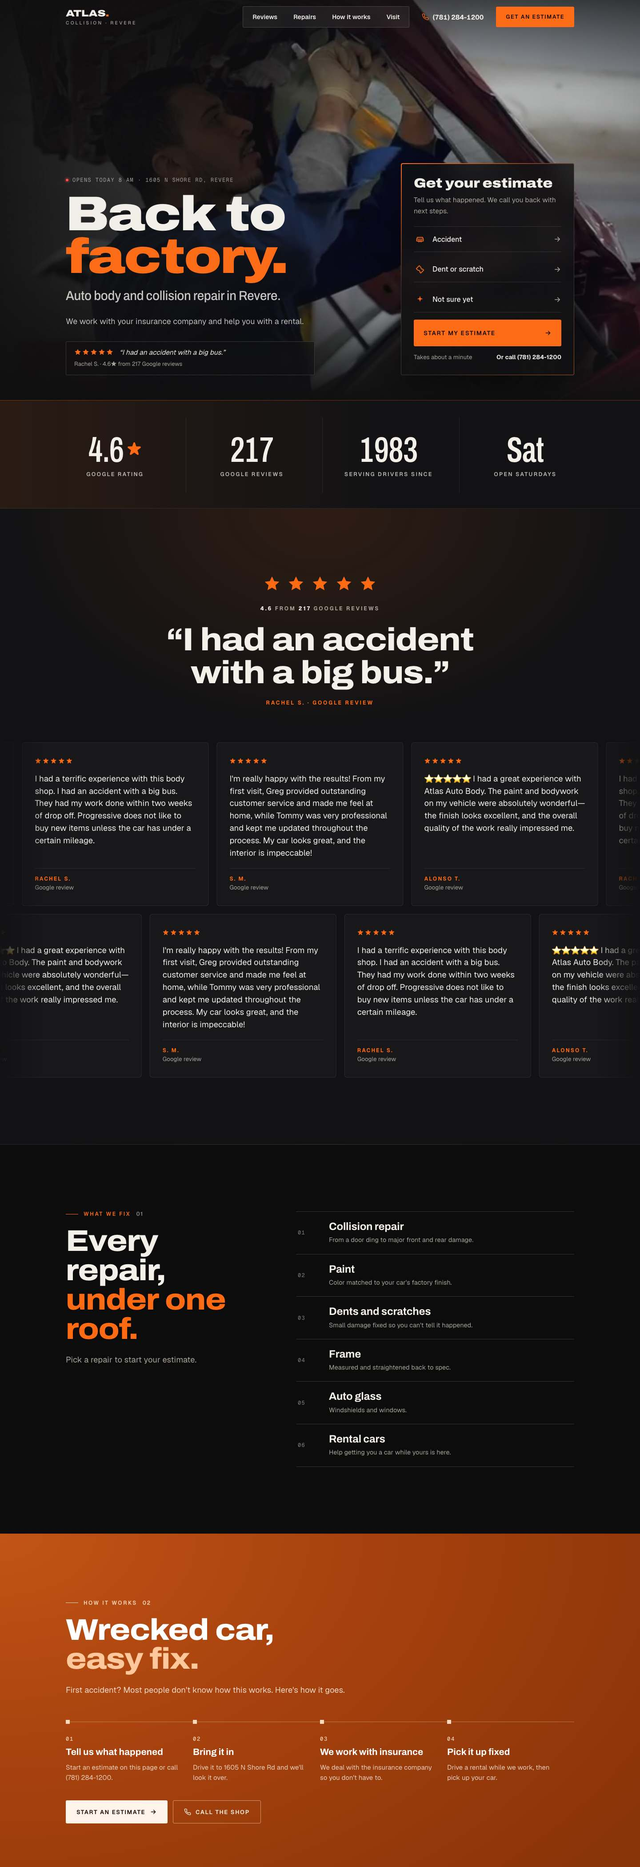
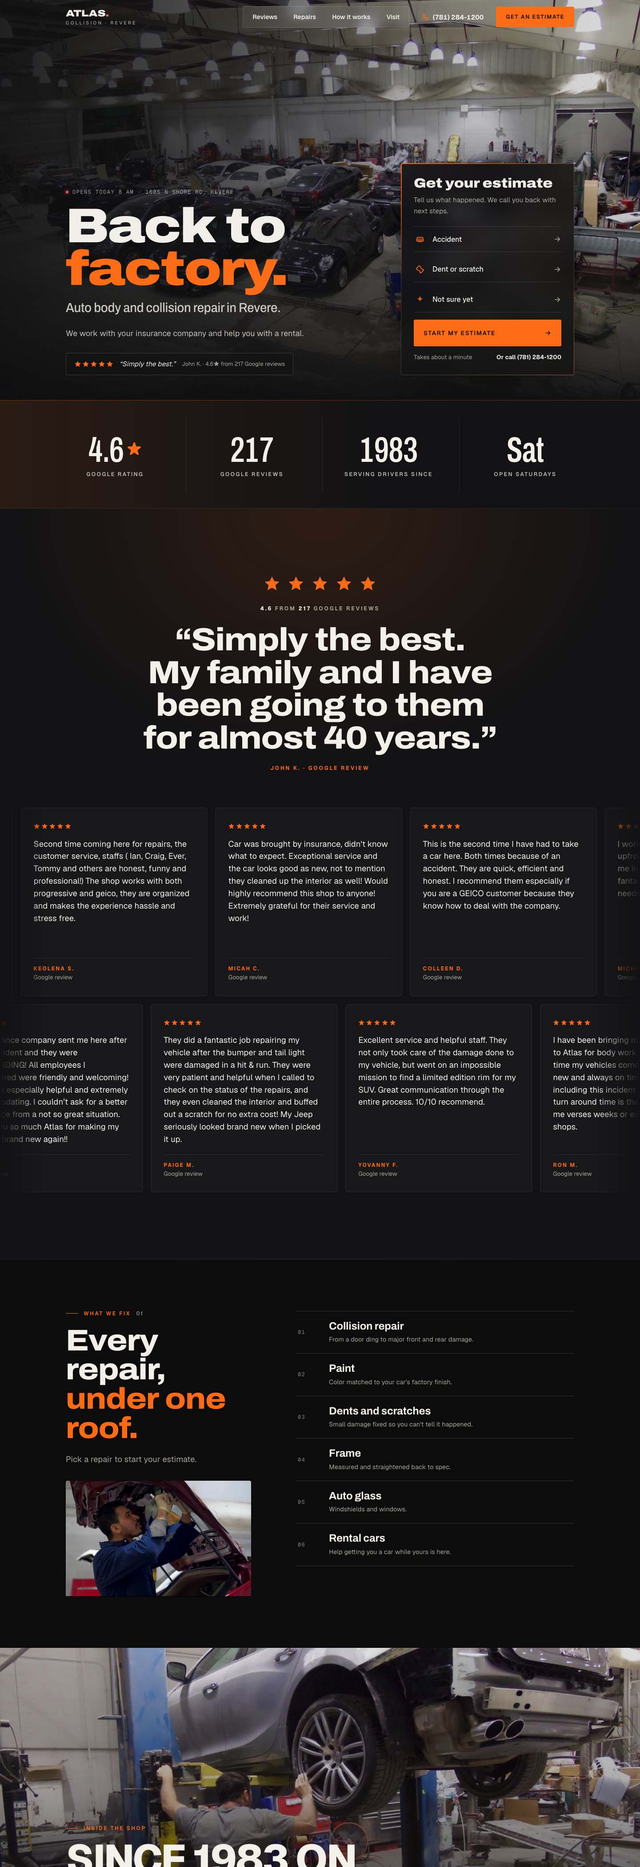
previews 2026-10-07 02:04

diff --git a/supino-insurance/index.html b/supino-insurance/index.html
@@ -34,10 +34,10 @@
    Type: Instrument Serif (headlines), Figtree (everything else)
    ============================================================ */
 :root{
-  --ink:#0C1A36; --harbour:#2358D6; --brick:#F5B544; --paper:#F4F7FC; --granite:#55627A;
-  --ink-2:#132651; --harbour-deep:#1B45AE; --brick-deep:#E9A22A; --paper-deep:#E8EEF9;
+  --ink:#0A1428; --harbour:#0F1D3A; --brick:#D4AF6A; --paper:#F6F2EA; --granite:#5E6573;
+  --ink-2:#13223F; --harbour-deep:#0A1428; --brick-deep:#C49B52; --paper-deep:#ECE5D8;
   --card:#FFFFFF; --line:rgba(12,26,54,.12); --line-strong:rgba(12,26,54,.24);
-  --on-ink:rgba(244,247,252,.78); --error:#B3261E;
+  --on-ink:rgba(240,236,228,.76); --error:#B3261E;
   --serif:"Instrument Serif", Georgia, "Times New Roman", serif;
   --sans:"Figtree", system-ui, -apple-system, "Segoe UI", Roboto, Helvetica, Arial, sans-serif;
   --max:1200px; --gutter:clamp(20px,5vw,48px); --section:clamp(72px,9vw,120px);
@@ -537,6 +537,67 @@ html.qf-open{overflow:hidden}
   .callbar .btn{flex:1;min-height:48px;padding:0 12px}
   .callbar .btn-light{background:#fff;color:var(--ink)}
 }
+
+/* ===== Navy + gold refresh ===== */
+.site-header{background:rgba(10,20,40,.94);-webkit-backdrop-filter:blur(10px);backdrop-filter:blur(10px);box-shadow:0 1px 0 rgba(212,175,106,.18)}
+.site-header.is-scrolled{background:rgba(10,20,40,.97)}
+.brand-sub{color:rgba(212,175,106,.85)}
+.hero{background:var(--ink)}
+.hero h1 em{color:var(--brick)}
+.proof-dots span{border-color:var(--ink)}
+.btn-primary{background:var(--brick);color:#0A1428}
+.btn-primary:hover{background:#E2C283;box-shadow:0 12px 28px -12px rgba(212,175,106,.75)}
+.btn-blue{background:var(--ink);color:#fff}.btn-blue:hover{background:#13223F}
+.btn-quiet:hover{border-color:var(--brick-deep);color:var(--ink)}
+.jump a{background:rgba(255,255,255,.04);box-shadow:inset 0 0 0 1px rgba(212,175,106,.38)}
+.jump a:hover{background:rgba(212,175,106,.12)}
+.scroll-cue{background:rgba(10,20,40,.85);box-shadow:inset 0 0 0 1px rgba(212,175,106,.3)}
+.coverage{background:var(--harbour);padding-top:var(--section)}
+.cov-grid{grid-template-columns:minmax(0,1fr)!important}
+.coverage .section-head{text-align:center}.coverage .section-head p{margin-inline:auto}
+.coverage .tabs{justify-content:center}
+.product,.coverage .product{background:rgba(255,255,255,.03);box-shadow:inset 0 0 0 1px rgba(212,175,106,.22)}
+.product:hover,.coverage .product:hover{background:rgba(212,175,106,.09);box-shadow:inset 0 0 0 1px rgba(212,175,106,.6)}
+.product svg{color:var(--brick)}
+.companies{text-align:center}
+.services{grid-template-columns:minmax(0,1fr)}
+.svc-list ul{grid-template-columns:repeat(3,minmax(0,1fr));gap:24px}
+.coverage .svc{background:transparent;box-shadow:none;border-top:1px solid rgba(212,175,106,.25);border-radius:0;padding:32px 0 0}
+.panel{background:var(--ink);box-shadow:inset 0 0 0 1px rgba(212,175,106,.16)}
+.why{background:var(--ink)}
+.stat b{color:var(--brick)}
+.reviews-band{background:var(--paper);padding-block:clamp(64px,8vw,104px)}
+.reviews-head{display:block;margin:0 0 28px}
+.reviews-head h2{font:400 clamp(2.4rem,4.6vw,3.8rem)/1 var(--serif);letter-spacing:-.01em}
+.reviews-head p{margin-top:10px;color:var(--granite)}
+.reviews-band .rv-card{background:#fff;box-shadow:0 1px 2px rgba(10,20,40,.06),0 18px 40px -26px rgba(10,20,40,.35);color:var(--ink)}
+.reviews-band .rv-card blockquote{font:400 1.45rem/1.3 var(--serif)}
+.reviews-band .rv-card figcaption small{color:var(--granite)}
+.reviews-band.is-paused .rv-lane{animation-play-state:paused}
+.photo-band{position:relative;min-height:clamp(380px,52vw,640px);display:flex;align-items:flex-end;overflow:hidden;color:#fff;isolation:isolate}
+.photo-band img{position:absolute;inset:0;width:100%;height:100%;object-fit:cover;z-index:-2;animation:bandDrift 30s ease-in-out infinite alternate}
+.photo-band::after{content:"";position:absolute;inset:0;z-index:-1;background:linear-gradient(0deg,rgba(10,20,40,.88) 0%,rgba(10,20,40,.35) 45%,rgba(10,20,40,.05) 100%)}
+.band-quote{padding-block:clamp(40px,6vw,72px);font:400 clamp(2.4rem,5.4vw,4.6rem)/1 var(--serif);letter-spacing:-.01em}
+.band-quote em{color:var(--brick)}
+@keyframes bandDrift{from{transform:scale(1.04) translateY(0)}to{transform:scale(1.12) translateY(-2%)}}
+.contact-top{grid-template-columns:minmax(0,1fr)}
+.team{padding:28px 0 0;border-top:1px solid var(--line)}
+.team h3{font:400 1.8rem/1 var(--serif)}.team > p{max-width:80ch;line-height:1.8}
+.site-footer{background:var(--ink)!important;box-shadow:inset 0 1px 0 rgba(212,175,106,.2)}
+/* reveal on scroll */
+.reveal{opacity:0;transform:translateY(26px);transition:opacity .9s var(--ease),transform .9s var(--ease)}
+.reveal.in{opacity:1;transform:none}
+@media (min-width:901px){
+  .hero{min-height:min(820px,calc(100svh - var(--header-h)));display:flex;align-items:center;padding-block:72px 110px;isolation:isolate}
+  .hero{overflow:hidden}
+  .hero::before{content:"";position:absolute;top:0;right:0;bottom:0;width:50%;z-index:-1;background:linear-gradient(90deg,var(--ink) 0%,var(--ink) 3%,rgba(10,20,40,.72) 20%,rgba(10,20,40,.12) 55%,rgba(10,20,40,0) 100%),linear-gradient(0deg,rgba(10,20,40,.6),transparent 35%),url(images/family-picnic.jpg) 45% 40%/cover;animation:bandDrift 32s ease-in-out infinite alternate;transform-origin:100% 50%}
+  .hero-grid > div:first-child{max-width:min(540px,42vw)}
+  .hero > .wrap{width:100%}
+  .hero-grid{grid-template-columns:minmax(0,1fr)}
+  .hero-card{display:none}
+}
+@media (max-width:760px){.svc-list ul{grid-template-columns:1fr}.reviews-band .rv-card blockquote{font-size:1.25rem}}
+@media (prefers-reduced-motion:reduce){.photo-band img,.hero::before{animation:none}.reveal{opacity:1;transform:none}}
 </style>
 </head>
 <body>
@@ -605,74 +666,16 @@ html.qf-open{overflow:hidden}
   <a class="scroll-cue" href="#coverage">Scroll to see what we offer<svg viewBox="0 0 24 24" fill="none" stroke="currentColor" stroke-width="2.2" stroke-linecap="round" stroke-linejoin="round" aria-hidden="true"><path d="M6 9l6 6 6-6"/></svg></a>
 </section>
 
+<!-- Real Google reviews, word for word -->
+<section class="reviews-band" id="reviews" aria-labelledby="reviews-title">
+  <div class="wrap"><div class="reviews-head"><h2 id="reviews-title">What Malden says about us</h2><p>Real Google reviews, word for word.</p></div></div>
+  <div class="wrap"><div class="rv-stage" id="rv-stage"><div class="rv-lane"></div></div></div>
+</section>
+
 <!-- ======================= 2. COVERAGE (GEICO-style band with Bumper) ======================= -->
 <section class="coverage" id="coverage" aria-labelledby="coverage-title">
   <div class="wrap">
     <div class="cov-grid">
-      <div class="cov-pitch">
-        <h3>Don't end up like Bumper.</h3>
-        <p class="pitch-sub">And if you do, we've got you covered. One call to us handles the car and the house.</p>
-        <svg class="crash" viewBox="0 0 560 290" role="img" aria-labelledby="crash-title">
-          <title id="crash-title">Bumper, a cartoon dog in a neck brace, sitting dazed in a little yellow convertible that has just rear-ended a blue car</title>
-          <ellipse cx="290" cy="262" rx="270" ry="12" fill="#000" opacity=".3"/>
-          <g class="steam" fill="#E6ECF7"><circle cx="300" cy="138" r="12"/><circle cx="316" cy="124" r="10"/><circle cx="306" cy="110" r="8"/></g>
-          <rect x="130" y="128" width="62" height="24" rx="11" fill="#F4F6FB"/>
-          <rect x="150" y="131" width="20" height="18" rx="4" fill="#2358D6"/>
-          <g transform="translate(160 92) scale(.72) translate(-130 -98)">
-            <g class="crash-head">
-              <path d="M88 64c-22 4-34 30-30 62 2 16 14 20 22 10 6-8 8-24 8-40z" fill="#8B5A3A"/>
-              <path d="M172 64c22 4 34 30 30 62-2 16-14 20-22 10-6-8-8-24-8-40z" fill="#8B5A3A"/>
-              <path d="M76 84c-6 14-6 30-2 42" stroke="#A8744F" stroke-width="5" stroke-linecap="round" fill="none"/>
-              <circle cx="130" cy="98" r="52" fill="#D9A267"/>
-              <path d="M104 50l6-16 6 14 6-18 6 16 7-14 3 18" fill="#C98C52"/>
-              <ellipse cx="150" cy="86" rx="20" ry="17" fill="#B77B45"/>
-              <ellipse cx="130" cy="120" rx="32" ry="24" fill="#F2DDBA"/>
-              <ellipse cx="130" cy="108" rx="11" ry="8" fill="#3B2A22"/>
-              <circle cx="126" cy="105" r="2.5" fill="#fff" opacity=".7"/>
-              <path d="M130 116v8M130 124c-4 6-12 6-14 1M130 124c4 6 12 6 14 1" stroke="#3B2A22" stroke-width="2.5" fill="none" stroke-linecap="round"/>
-              <g fill="#B77B45"><circle cx="112" cy="122" r="1.6"/><circle cx="106" cy="118" r="1.6"/><circle cx="110" cy="114" r="1.6"/><circle cx="148" cy="122" r="1.6"/><circle cx="154" cy="118" r="1.6"/><circle cx="150" cy="114" r="1.6"/></g>
-              <circle cx="112" cy="90" r="5.5" fill="#1D1411"/><circle cx="150" cy="90" r="5.5" fill="#1D1411"/>
-              <circle cx="114" cy="88" r="1.8" fill="#fff"/><circle cx="152" cy="88" r="1.8" fill="#fff"/>
-              <path d="M102 82l16-6M160 82l-16-6" stroke="#6E4428" stroke-width="3" stroke-linecap="round"/>
-              <!-- head bandage and cheek plaster -->
-              <path d="M90 70c20-22 60-26 84-8l-4 12c-22-14-56-12-76 8z" fill="#F4F6FB"/>
-              <path d="M110 56v10M104 61h12" stroke="#E0564A" stroke-width="3" stroke-linecap="round"/>
-              <rect x="150" y="110" width="22" height="10" rx="4" transform="rotate(-22 161 115)" fill="#F1C9A0"/>
-              <g fill="#D9A574"><circle cx="157" cy="117" r="1"/><circle cx="162" cy="115" r="1"/><circle cx="167" cy="113" r="1"/></g>
-            </g>
-          </g>
-          <g class="stars" fill="#F5B544">
-            <path d="M120 40l3 7 7 1-5 5 1 7-6-3-6 3 1-7-5-5 7-1z"/>
-            <path d="M196 30l2.4 5.4 5.6.8-4 4 1 5.6-5-2.6-5 2.6 1-5.6-4-4 5.6-.8z"/>
-            <path d="M152 22l2 4.4 4.6.6-3.4 3.2.8 4.6-4-2.2-4 2.2.8-4.6-3.4-3.2 4.6-.6z"/>
-          </g>
-          <path d="M226 158l24-44h8l-18 44z" fill="#9DC0F2" opacity=".75"/>
-          <ellipse cx="218" cy="152" rx="6" ry="14" fill="#0C1A36" transform="rotate(-20 218 152)"/>
-          <path d="M34 226v-44c0-16 10-26 26-28l56-6h112l58 8c18 3 28 12 30 26l2 10-10 4-8 8 10 6-8 6v10z" fill="#F5B544"/>
-          <path d="M318 162l12 8-8 8 12 6-10 8 12 6-10 8 16 4v16h-24z" fill="#E09A2A"/>
-          <path d="M318 162l12 8-8 8 12 6-10 8 12 6-10 8 16 4" fill="none" stroke="#B87618" stroke-width="3" stroke-linejoin="round"/>
-          <path d="M34 186h290" stroke="#E09A2A" stroke-width="4"/>
-          <path d="M150 158v66" stroke="#E09A2A" stroke-width="3"/>
-          <rect x="164" y="170" width="22" height="6" rx="3" fill="#B87618"/>
-          <circle cx="326" cy="200" r="9" fill="#FFF3C4"/>
-          <path d="M320 195l6 5-3 6M326 200l6-3" stroke="#B87618" stroke-width="2" fill="none"/>
-          <rect x="26" y="208" width="18" height="14" rx="4" fill="#C9D1E4"/>
-          <path d="M318 236h26v-10" stroke="#C9D1E4" stroke-width="10" stroke-linecap="round" fill="none"/>
-          <circle cx="98" cy="236" r="28" fill="#0C1A36"/><circle cx="98" cy="236" r="12" fill="#C9D1E4"/>
-          <circle cx="276" cy="236" r="28" fill="#0C1A36"/><circle cx="276" cy="236" r="6" fill="#55627A"/>
-          <!-- the car Bumper rear-ended -->
-          <path d="M338 226v-38c0-8 4-14 12-16l34-6 26-36c4-6 10-8 16-8h62c10 0 16 4 20 12l14 32 16 4c6 2 10 8 10 16v40z" fill="#5B86EE"/>
-          <path d="M420 130l20-26h40v26zM488 130v-26h14c6 0 10 3 12 8l8 18z" fill="#0C1A36" opacity=".45"/>
-          <path d="M338 204h210" stroke="#3E68D4" stroke-width="3"/>
-          <path d="M338 176l12 6-9 8 11 6-9 8 9 6v16h-14z" fill="#3E68D4"/>
-          <rect x="340" y="168" width="10" height="14" rx="2" fill="#E0564A"/>
-          <path d="M341 171l6 4-4 5" stroke="#FFF3C4" stroke-width="1.6" fill="none"/>
-          <circle cx="392" cy="236" r="28" fill="#0C1A36"/><circle cx="392" cy="236" r="11" fill="#C9D1E4"/>
-          <circle cx="506" cy="236" r="28" fill="#0C1A36"/><circle cx="506" cy="236" r="11" fill="#C9D1E4"/>
-          <path d="M324 106l-8-18M340 100v-20M356 106l8-18" stroke="#F5B544" stroke-width="5" stroke-linecap="round"/>
-          <circle cx="352" cy="262" r="10" fill="#C9D1E4"/><circle cx="352" cy="262" r="4" fill="#8A96AE"/>
-        </svg>
-      </div>
       <div class="cov-main">
     <div class="section-head">
           <h2 id="coverage-title">Get a quote today.</h2>
@@ -701,15 +704,6 @@ html.qf-open{overflow:hidden}
           <li><svg viewBox="0 0 24 24" fill="none" stroke="currentColor" stroke-width="1.8" stroke-linecap="round" stroke-linejoin="round" aria-hidden="true"><path d="M3 11l9-7 9 7M5 10v10h14V10M10 20v-6h4v6"/></svg><span><b>Real estate</b>Buying or selling? We recommend <a href="https://www.debbiemillersells.com/" target="_blank" rel="noopener">Deb Miller Real Estate</a>.</span></li>
         </ul>
       </div>
-      <form class="svc calc" id="calc" onsubmit="return false" aria-labelledby="calc-title">
-        <h3 id="calc-title">Mortgage calculator</h3>
-        <div class="field"><label for="c-price">Home price</label><input id="c-price" inputmode="numeric" value="650,000" autocomplete="off"></div>
-        <div class="field"><label for="c-down">Down payment</label><input id="c-down" inputmode="numeric" value="130,000" autocomplete="off"></div>
-        <div class="field"><label for="c-rate">Rate (%)</label><input id="c-rate" inputmode="decimal" value="6.5" autocomplete="off"></div>
-        <div class="field"><label for="c-term">Term</label><select id="c-term"><option value="30">30 years</option><option value="20">20 years</option><option value="15">15 years</option></select></div>
-        <div class="calc-out" aria-live="polite"><span>Per month</span><output id="c-out" for="c-price c-down c-rate c-term">$0</output></div>
-        <p class="calc-fine">Principal and interest only. Taxes, insurance and fees not included.</p>
-      </form>
     </div>
   </div>
 </section>
@@ -790,16 +784,12 @@ html.qf-open{overflow:hidden}
         </figcaption>
       </figure>
     </div>
+  </div>
+</section>
 
-    <div class="reviews-head"><h3>What our customers say</h3></div>
-  </div>
-  <!-- Real Google reviews (copied Sept 2026). The row holds its set twice for a seamless loop; the copies are hidden from screen readers. -->
-  <div class="wrap">
-    <div class="rv-stage" id="rv-stage">
-      <div class="rv-lane">
-      </div>
-    </div>
-  </div>
+<section class="photo-band" aria-label="Supino family agency">
+  <img src="images/family-home.jpg" srcset="images/family-home-640.jpg 640w, images/family-home.jpg 960w" sizes="100vw" width="960" height="640" loading="lazy" alt="Parents and three young kids playing together on the living room floor">
+  <div class="wrap"><p class="band-quote">Two offices. One family.<br><em>Here since 1989.</em></p></div>
 </section>
 
 <!-- ======================= 5. CONTACT ======================= -->
@@ -815,9 +805,6 @@ html.qf-open{overflow:hidden}
           <a class="btn btn-quiet" href="tel:+17813344888">Call Lynnfield 781-334-4888</a>
         </div>
       </div>
-      <figure class="contact-photo">
-        <img src="images/family-home.jpg" srcset="images/family-home-640.jpg 640w, images/family-home.jpg 960w" sizes="(max-width: 900px) 100vw, 50vw" width="960" height="640" loading="lazy" alt="Parents and three young kids playing together on the living room floor">
-      </figure>
     </div>
     <div class="contact-grid">
       <div>
@@ -863,18 +850,8 @@ html.qf-open{overflow:hidden}
     </div>
 
     <div class="team">
-      <h3>Our team</h3>
-      <p>Call 781-322-2800 and ask for anyone by extension.</p>
-      <ul class="team-list is-folded" id="team-list">
-        <li><span class="team-avatar" aria-hidden="true">MS</span><span><b>Michael J. Supino</b><small>Owner · Ext. 210</small></span><a href="mailto:mike@supinoinsurance.com">mike@supinoinsurance.com</a></li>
-        <li><span class="team-avatar" aria-hidden="true">EM</span><span><b>Ed McManus</b><small>Ext. 206</small></span><a href="mailto:ed@supinoinsurance.com">ed@supinoinsurance.com</a></li>
-        <li><span class="team-avatar" aria-hidden="true">PN</span><span><b>Patti Nagleri</b><small>Ext. 204</small></span><a href="mailto:patti@supinoinsurance.com">patti@supinoinsurance.com</a></li>
-        <li><span class="team-avatar" aria-hidden="true">JA</span><span><b>John Anzuoni</b><small>Ext. 203</small></span><a href="mailto:john@supinoinsurance.com">john@supinoinsurance.com</a></li>
-        <li><span class="team-avatar" aria-hidden="true">DS</span><span><b>Derek Supino</b><small>Ext. 205</small></span><a href="mailto:derek@supinoinsurance.com">derek@supinoinsurance.com</a></li>
-        <li><span class="team-avatar" aria-hidden="true">BD</span><span><b>Beth Donovan</b><small>Ext. 209</small></span><a href="mailto:beth@supinoinsurance.com">beth@supinoinsurance.com</a></li>
-        <li><span class="team-avatar" aria-hidden="true">JS</span><span><b>John Shea</b><small>Ext. 321</small></span><a href="mailto:johnshea@supinoinsurance.com">johnshea@supinoinsurance.com</a></li>
-      </ul>
-      <button type="button" class="btn btn-quiet btn-sm team-more" id="team-more" aria-controls="team-list" aria-expanded="false">See the whole team (7)</button>
+      <h3>Ask for anyone by name</h3>
+      <p>Call 781-322-2800: Michael Supino, owner (ext. 210) · Ed McManus (206) · Patti Nagleri (204) · John Anzuoni (203) · Derek Supino (205) · Beth Donovan (209) · John Shea (321).</p>
     </div>
   </div>
 </section>
@@ -1172,8 +1149,14 @@ html.qf-open{overflow:hidden}
       lane.appendChild(f);
     });
   });
-  var why = document.getElementById('why');
+  var why = document.getElementById('reviews');
   document.getElementById('rv-stage').addEventListener('click', function(){ why.classList.toggle('is-paused'); });
+
+  /* Reveal on scroll */
+  if (!reduced && 'IntersectionObserver' in window){
+    var ro = new IntersectionObserver(function(es){ es.forEach(function(en){ if (en.isIntersecting){ en.target.classList.add('in'); ro.unobserve(en.target); } }); }, {threshold:.12, rootMargin:'0px 0px -40px 0px'});
+    document.querySelectorAll('.section-head,.tab-panel,.companies,.services,.panel,.stats,.story,.reviews-head,.band-quote,.offices,.form-card,.team').forEach(function(el){ el.classList.add('reveal'); ro.observe(el); });
+  }
 
   /* Big numbers count up once */
   var counts = document.querySelectorAll('[data-count]');
@@ -1188,18 +1171,6 @@ html.qf-open{overflow:hidden}
     counts.forEach(function(c){ c.textContent = '0'; co.observe(c); });
   }
 
-  /* Mortgage calculator */
-  var cP = document.getElementById('c-price'), cD = document.getElementById('c-down'), cR = document.getElementById('c-rate'), cT = document.getElementById('c-term'), cO = document.getElementById('c-out');
-  function num(el){ return parseFloat(String(el.value).replace(/[^0-9.]/g, '')) || 0; }
-  function calc(){
-    var loan = Math.max(num(cP) - num(cD), 0), r = num(cR) / 1200, n = +cT.value * 12;
-    var pay = !loan ? 0 : (r ? loan * r / (1 - Math.pow(1 + r, -n)) : loan / n);
-    cO.textContent = '$' + Math.round(pay).toLocaleString('en-US');
-  }
-  [cP, cD, cR, cT].forEach(function(el){ el.addEventListener('input', calc); });
-  [cP, cD].forEach(function(el){ el.addEventListener('blur', function(){ var v = num(el); if (v) el.value = Math.round(v).toLocaleString('en-US'); }); });
-  calc();
-
   /* Contact form */
   var form = document.getElementById('contact-form'), status = document.getElementById('form-status');
   form.addEventListener('submit', function(e){
@@ -1210,14 +1181,6 @@ html.qf-open{overflow:hidden}
     fetch(form.getAttribute('data-endpoint'), {method:'POST', body:new FormData(form), headers:{'Accept':'application/json'}})
       .then(function(r){ if (!r.ok) throw new Error(); form.reset(); status.dataset.state = 'ok'; status.textContent = 'Thanks. We have your message.'; })
       .catch(function(){ status.dataset.state = 'err'; status.textContent = 'That didn’t send. Please call 781-322-2800.'; });
-  });
-
-  /* Team list folds on phones */
-  var teamBtn = document.getElementById('team-more'), teamList = document.getElementById('team-list');
-  teamBtn.addEventListener('click', function(){
-    var open = !teamList.classList.toggle('is-folded');
-    teamBtn.setAttribute('aria-expanded', open ? 'true' : 'false');
-    teamBtn.textContent = open ? 'Show fewer' : 'See the whole team (7)';
   });
 
   /* ---------------- Quote flow ---------------- */

diff --git a/atlas-auto-body/index.html b/atlas-auto-body/index.html
@@ -715,6 +715,25 @@ body{font-family:var(--body)}
 @media (max-width:760px){.status{font-size:10.5px!important;letter-spacing:.05em}.tow{font-size:11.5px!important;letter-spacing:.1em}.tow-n{font-size:11.5px!important;letter-spacing:.1em!important}.tow .sep{width:18px}
 .gal2.n4 figure:nth-child(4){grid-column:span 2}.gal2 figure:not(:first-child) figcaption{font-size:10px;padding:30px 10px 10px}
 .tl{border-top:0;border-left:1px solid rgba(255,226,204,.35);margin-left:4px;row-gap:28px}.tl li{padding:0 0 0 24px}.tl li::before{top:4px;left:-5px}}
+
+/* ===== refresh: real photos, graded; tighter rhythm ===== */
+.sec{padding-block:clamp(72px,8vw,120px)}
+.hero-bg img,.band img,.spec-ph img,.gal2 img,.bldg img{filter:contrast(1.07) saturate(1.06) brightness(.97)}
+.hero::before{background:linear-gradient(90deg,rgba(10,10,11,.92) 0%,rgba(10,10,11,.7) 38%,rgba(10,10,11,.25) 70%,rgba(10,10,11,.1) 100%),linear-gradient(0deg,rgba(10,10,11,.95) 0%,rgba(10,10,11,0) 45%)!important}
+.spec-ph{margin:34px 0 0;border-radius:4px;overflow:hidden;aspect-ratio:16/10;max-width:460px}
+.spec-ph img{width:100%;height:100%;object-fit:cover;transition:transform 1.4s cubic-bezier(.2,.8,.2,1)}
+.spec-ph:hover img{transform:scale(1.04)}
+@media(min-width:900px){.spec-h{position:sticky;top:110px;align-self:start}}
+.band{position:relative;min-height:clamp(380px,56vw,680px);display:flex;align-items:flex-end;overflow:hidden;isolation:isolate}
+.band img{position:absolute;inset:0;width:100%;height:100%;object-fit:cover;z-index:-2;animation:bandDrift 28s ease-in-out infinite alternate}
+.band::after{content:"";position:absolute;inset:0;z-index:-1;background:linear-gradient(0deg,rgba(10,10,11,.92) 0%,rgba(10,10,11,.35) 50%,rgba(10,10,11,.1) 100%)}
+.band .wrap{width:100%;padding-block:clamp(40px,6vw,80px)}
+.band-t{margin:12px 0 0;font-size:clamp(2.6rem,6.4vw,6rem);line-height:.9;font-weight:900;font-stretch:118%;letter-spacing:-.035em;text-transform:uppercase}
+.band-t em{font-style:normal;color:var(--o)}
+@keyframes bandDrift{from{transform:scale(1.03)}to{transform:scale(1.12) translateY(-2%)}}
+.bldg{margin:26px 0 8px;border-radius:4px;overflow:hidden;aspect-ratio:1330/666;max-height:520px;width:100%}
+.bldg img{width:100%;height:100%;object-fit:cover}
+@media (prefers-reduced-motion:reduce){.band img{animation:none}}
 </style>
 </head>
 <body>
@@ -756,7 +775,7 @@ body{font-family:var(--body)}
 
 <main id="main">
 <section class="hero" id="top">
-  <div class="hero-bg"><img src="img/hero-1200.webp" srcset="img/hero-1200.webp 1200w, img/hero.webp 720w" sizes="100vw" width="720" height="406" alt="A car finished at Atlas Auto Body" fetchpriority="high" style="object-position:50% 55%"></div>
+  <div class="hero-bg"><img src="img/hero.jpg" srcset="img/hero-1200.jpg 1200w, img/hero.jpg 1800w" sizes="100vw" width="1800" height="1350" alt="The Atlas shop floor in Revere, full of cars being repaired" fetchpriority="high" style="object-position:50% 45%"></div>
   <div class="streak" aria-hidden="true"></div>
   <div class="wrap hero-grid">
     <div class="hero-copy">
@@ -764,7 +783,7 @@ body{font-family:var(--body)}
       <p class="status" id="status"><i></i><span>1605 N Shore Rd, Revere</span></p>
       <h1>Back to <span class="o">factory.</span><span class="thin">Auto body and collision repair in Revere.</span></h1>
       <p class="hero-sub">We work with your insurance company and help you with a rental.</p>
-      <a class="hero-rv" href="#reviews"><span class="stars" aria-label="5 stars"><svg><use href="#star"/></svg><svg><use href="#star"/></svg><svg><use href="#star"/></svg><svg><use href="#star"/></svg><svg><use href="#star"/></svg></span><q>I had an accident with a big bus.</q><small>Rachel S. · 4.6★ from 217 Google reviews</small></a>
+      <a class="hero-rv" href="#reviews"><span class="stars" aria-label="5 stars"><svg><use href="#star"/></svg><svg><use href="#star"/></svg><svg><use href="#star"/></svg><svg><use href="#star"/></svg><svg><use href="#star"/></svg></span><q>Simply the best.</q><small>John K. · 4.6★ from 217 Google reviews</small></a>
     </div>
     <div class="est-panel" id="estPanel">
       <h3>Get your estimate</h3>
@@ -782,8 +801,8 @@ body{font-family:var(--body)}
   <div class="wrap">
     <div class="stars-big" id="starsBig" aria-hidden="true"><svg><use href="#star"/></svg><svg><use href="#star"/></svg><svg><use href="#star"/></svg><svg><use href="#star"/></svg><svg><use href="#star"/></svg></div>
     <span class="label"><b>4.6</b> from <b>217</b> Google reviews</span>
-    <h2 id="reviews-title">“I had an accident with a big bus.”</h2>
-    <p class="praise-src">Rachel S. · Google review</p>
+    <h2 id="reviews-title">“Simply the best. My family and I have been going to them for almost 40 years.”</h2>
+    <p class="praise-src">John K. · Google review</p>
   </div>
   <div class="rail" role="region" aria-label="Customer reviews from Google"><div class="rail-track" id="railTrack"></div></div>
   <div class="rail rev" aria-hidden="true"><div class="rail-track" id="railTrack2"></div></div>
@@ -794,9 +813,15 @@ body{font-family:var(--body)}
 <section class="sec" id="repairs">
   <div class="wrap spec">
     <div class="spec-h rv-in"><p class="kick">What we fix <i>01</i></p><h2>Every repair,<br><em>under one roof.</em></h2><p class="lede">Pick a repair to start your estimate.</p>
+      <figure class="spec-ph"><img src="img/tech.jpg" width="1200" height="677" loading="lazy" alt="An Atlas tech working under the hood of a car"></figure>
       </div>
     <ol class="spec-l"><li class="rv-in"><button type="button" class="svc-row" data-svc="Accident"><span class="n">01</span><span class="t"><b>Collision repair</b><small>From a door ding to major front and rear damage.</small></span><span class="go">Estimate<svg><use href="#arrow"/></svg></span></button></li><li class="rv-in"><button type="button" class="svc-row" data-svc="Paint"><span class="n">02</span><span class="t"><b>Paint</b><small>Color matched to your car&#39;s factory finish.</small></span><span class="go">Estimate<svg><use href="#arrow"/></svg></span></button></li><li class="rv-in"><button type="button" class="svc-row" data-svc="Dent or scratch"><span class="n">03</span><span class="t"><b>Dents and scratches</b><small>Small damage fixed so you can&#39;t tell it happened.</small></span><span class="go">Estimate<svg><use href="#arrow"/></svg></span></button></li><li class="rv-in"><button type="button" class="svc-row" data-svc="Accident"><span class="n">04</span><span class="t"><b>Frame</b><small>Measured and straightened back to spec.</small></span><span class="go">Estimate<svg><use href="#arrow"/></svg></span></button></li><li class="rv-in"><button type="button" class="svc-row" data-svc="Glass"><span class="n">05</span><span class="t"><b>Auto glass</b><small>Windshields and windows.</small></span><span class="go">Estimate<svg><use href="#arrow"/></svg></span></button></li><li class="rv-in"><button type="button" class="svc-row" data-svc=""><span class="n">06</span><span class="t"><b>Rental cars</b><small>Help getting you a car while yours is here.</small></span><span class="go">Estimate<svg><use href="#arrow"/></svg></span></button></li></ol>
   </div>
+</section>
+
+<section class="band" aria-label="Inside the shop">
+  <img src="img/lift.jpg" width="1500" height="1125" loading="lazy" alt="A car up on the lift inside Atlas Auto Body" style="object-position:50% 35%">
+  <div class="wrap"><p class="kick">Inside the shop</p><p class="band-t">Since 1983 on<br><em>N Shore Rd.</em></p></div>
 </section>
 
 <section class="sec claim orange" id="claim">
@@ -816,7 +841,7 @@ body{font-family:var(--body)}
 <section class="sec" id="shop" style="padding-top:0">
   <div class="wrap">
     <div class="rv-in"><p class="kick">Our work <i>03</i></p><h2>Real cars. <em>Real work.</em></h2></div>
-    <div class="gal2 n4"><figure class="rv-in"><img src="img/g4-1200.webp" srcset="img/g4-1200.webp 1200w, img/g4.webp 768w" sizes="(max-width:760px) 100vw, 66vw" width="768" height="1024" loading="lazy" alt="Ford F-150"><figcaption><span>01</span>Ford F-150</figcaption></figure><figure class="rv-in"><img src="img/n-g006-1200.webp" srcset="img/n-g006-1200.webp 1200w, img/n-g006.webp 1920w" sizes="(max-width:760px) 100vw, 33vw" width="1920" height="1440" loading="lazy" alt="Inside the shop"><figcaption><span>02</span>Inside the shop</figcaption></figure><figure class="rv-in"><img src="img/g2-1200.webp" srcset="img/g2-1200.webp 1200w, img/g2.webp 1280w" sizes="(max-width:760px) 100vw, 33vw" width="1280" height="960" loading="lazy" alt="Body work in progress"><figcaption><span>03</span>Body work in progress</figcaption></figure><figure class="rv-in"><img src="img/g3-1200.webp" srcset="img/g3-1200.webp 1200w, img/g3.webp 1920w" sizes="(max-width:760px) 100vw, 33vw" width="1920" height="1440" loading="lazy" alt="In for repair"><figcaption><span>04</span>In for repair</figcaption></figure></div>
+    <div class="gal2 n4"><figure class="rv-in"><img src="img/tools.jpg" width="1125" height="1500" loading="lazy" alt="Tool cart in the Atlas shop"><figcaption><span>01</span>The right tools</figcaption></figure><figure class="rv-in"><img src="img/floor2.jpg" width="1500" height="1125" loading="lazy" alt="Cars waiting for repair on the shop floor"><figcaption><span>02</span>The shop floor</figcaption></figure><figure class="rv-in"><img src="img/g2-1200.webp" srcset="img/g2-1200.webp 1200w, img/g2.webp 1280w" sizes="(max-width:760px) 100vw, 33vw" width="1280" height="960" loading="lazy" alt="Body work in progress"><figcaption><span>03</span>Body work in progress</figcaption></figure><figure class="rv-in"><img src="img/g3-1200.webp" srcset="img/g3-1200.webp 1200w, img/g3.webp 1920w" sizes="(max-width:760px) 100vw, 33vw" width="1920" height="1440" loading="lazy" alt="In for repair"><figcaption><span>04</span>In for repair</figcaption></figure></div>
   </div>
 </section>
 
@@ -826,6 +851,7 @@ body{font-family:var(--body)}
     <div class="rv-in">
       <p class="kick">Visit <i>04</i></p>
       <h2>Come <em>see us.</em></h2>
+      <figure class="bldg"><img src="img/building.jpg" width="1330" height="666" loading="lazy" alt="The Atlas Auto Body building at 1605 N Shore Rd, Revere"></figure>
       <p class="addr">1605 N Shore Rd<br>Revere, MA 02151</p>
       <table class="hours" id="hours"><tbody></tbody></table>
       <div class="visit-cta"><a class="btn btn-o" href="https://www.google.com/maps/dir/?api=1&amp;destination=1605+N+Shore+Rd%2C+Revere%2C+MA+02151" target="_blank" rel="noopener">Directions <svg><use href="#arrow"/></svg></a><a class="btn btn-g" href="tel:+17812841200"><svg><use href="#phone"/></svg>(781) 284-1200</a></div>
@@ -917,7 +943,7 @@ body{font-family:var(--body)}
     </div>
   </div>
 </div>
-<script>window.BIZ={"name":"Atlas Auto Body","phone":"(781) 284-1200","town":"Revere","street":"1605 N Shore Rd","detail":false,"certs":[],"services":["insurance","rental","glass","frame"],"hours":[["Monday","8 AM–5 PM"],["Tuesday","8 AM–5 PM"],["Wednesday","8 AM–5 PM"],["Thursday","8 AM–5 PM"],["Friday","8 AM–5 PM"],["Saturday","9 AM–12 PM"],["Sunday","Closed"]],"quotes":[{"a":"Alonso T.","t":"⭐⭐⭐⭐⭐ I had a great experience with Atlas Auto Body. The paint and bodywork on my vehicle were absolutely wonderful—the finish looks excellent, and the overall quality of the work really impressed me."},{"a":"Rachel S.","t":"I had a terrific experience with this body shop. I had an accident with a big bus. They had my work done within two weeks of drop off. Progressive does not like to buy new items unless the car has under a certain mileage."},{"a":"S. M.","t":"I'm really happy with the results! From my first visit, Greg provided outstanding customer service and made me feel at home, while Tommy was very professional and kept me updated throughout the process. My car looks great, and the interior is impeccable!"}],"gallery":[[["g4",768,1024,"Ford F-150"],["n-g006",1920,1440,"Inside the shop"]],[["g2",1280,960,"Body work in progress"],["g3",1920,1440,"In for repair"]]]};</script>
+<script>window.BIZ={"name":"Atlas Auto Body","phone":"(781) 284-1200","town":"Revere","street":"1605 N Shore Rd","detail":false,"certs":[],"services":["insurance","rental","glass","frame"],"hours":[["Monday","8 AM–5 PM"],["Tuesday","8 AM–5 PM"],["Wednesday","8 AM–5 PM"],["Thursday","8 AM–5 PM"],["Friday","8 AM–5 PM"],["Saturday","9 AM–12 PM"],["Sunday","Closed"]],"quotes":[{"a": "S. M.", "t": "I'm really happy with the results! From my first visit, Greg provided outstanding customer service and made me feel at home, while Tommy was very professional and kept me updated throughout the process. My car looks great, and the interior is impeccable! I'm extremely satisfied and highly recommend this place! Thank you!"}, {"a": "Keolena S.", "t": "Second time coming here for repairs, the customer service, staffs ( Ian, Craig, Ever, Tommy and others are honest, funny and professional!) The shop works with both progressive and geico, they are organized and makes the experience hassle and stress free."}, {"a": "Micah C.", "t": "Car was brought by insurance, didn't know what to expect. Exceptional service and the car looks good as new, not to mention they cleaned up the interior as well! Would highly recommend this shop to anyone! Extremely grateful for their service and work!"}, {"a": "Colleen D.", "t": "This is the second time I have had to take a car here. Both times because of an accident. They are quick, efficient and honest. I recommend them especially if you are a GEICO customer because they know how to deal with the company."}, {"a": "Michael V.", "t": "I worked with Ian - he was transparent, upfront, and communicated my options to me in laymen terms. The result was fantastic. I’ll go back for any autobody needs."}, {"a": "Jenny C.", "t": "Dropped my car off Tuesday ( a day early than my apt ) and I thought it would be at least a week… it was done within 24 hours.. also came with a good detail inside .. I was super happy with the quick service and great communication with these guys. Thanks again!"}, {"a": "Juliet W.", "t": "Took my Volkswagen here after it was keyed and Atlas made everything very easy. Dropped my car off on Thursday and they had a rental car meet me there. They also got my car finished by Saturday which was great! The car looks like new and everyone was very friendly."}, {"a": "Paige M.", "t": "They did a fantastic job repairing my vehicle after the bumper and tail light were damaged in a hit & run. They were very patient and helpful when I called to check on the status of the repairs, and they even cleaned the interior and buffed out a scratch for no extra cost! My Jeep seriously looked brand new when I picked it up."}, {"a": "Yovanny F.", "t": "Excellent service and helpful staff. They not only took care of the damage done to my vehicle, but went on an impossible mission to find a limited edition rim for my SUV. Great communication through the entire process. 10/10 recommend."}, {"a": "Ron M.", "t": "I have been bringing my family's vehicles to Atlas for body work since 2004. Every time my vehicles come back to me like new and always on time as scheduled; including this incident. 2 to 3 days average turn around time is the most important to me verses weeks or even a month at other shops."}, {"a": "Andrew S.", "t": "Prompt service, friendly staff, fast turnaround time, and a fantastic job on repairs. These guys literally saved my car from being totalled. I hope I don't have to get my car repaired again soon, but I'll definitely choose them when the need arises."}, {"a": "John K.", "t": "Simply the best. My family and I have been going to them for almost 40 years. They say they always guarantee their work. I don’t know what they mean by that as every job they have done was always completed right the first time."}, {"a": "Monique K.", "t": "11 out of 10. This is THE BEST experience we have ever had with an auto body place. USAA recommended and now we know why. If you need auto body work this is the place to go."}, {"a": "Meaghan", "t": "My insurance company sent me here after a car accident and they were OUTSTANDING! All employees I encountered were friendly and welcoming! Greg was especially helpful and extremely accommodating. I couldn’t ask for a better experience from a not so great situation. Thank you so much Atlas for making my car look brand new again!!"}],"gallery":[[["g4",768,1024,"Ford F-150"],["n-g006",1920,1440,"Inside the shop"]],[["g2",1280,960,"Body work in progress"],["g3",1920,1440,"In for repair"]]]};</script>
 <script>(() => {
   const BIZ = window.BIZ, $ = (s, r = document) => r.querySelector(s), $$ = (s, r = document) => [...r.querySelectorAll(s)];
   const reduce = matchMedia('(prefers-reduced-motion: reduce)').matches;
@@ -935,11 +961,11 @@ body{font-family:var(--body)}
   const escH = s => String(s).replace(/[&<>"]/g, c => ({ '&': '&amp;', '<': '&lt;', '>': '&gt;', '"': '&quot;' }[c]));
   // reviews: Greg-style rail that drifts sideways; two identical sets make the loop seamless
   const card = (q, hide) => '<figure class="rcard"><span class="stars"' + (hide ? '' : ' aria-hidden="true"') + '>★★★★★</span><blockquote>' + escH(q.t) + '</blockquote><figcaption><b>' + escH(q.a) + '</b>Google review</figcaption></figure>';
-  const qs = BIZ.quotes.length < 4 ? BIZ.quotes.concat(BIZ.quotes) : BIZ.quotes;
+  const half = Math.ceil(BIZ.quotes.length / 2), qs = BIZ.quotes.slice(0, half);
   $('#railTrack').innerHTML = '<div class="rail-set">' + qs.map(q => card(q)).join('') + '</div><div class="rail-set" aria-hidden="true">' + qs.map(q => card(q, 1)).join('') + '</div>';
   $('#railTrack').style.animationDuration = (qs.length * 13) + 's';
   // second rail: the same reviews in a different order, drifting the other way
-  const qs2 = qs.slice(Math.ceil(qs.length / 2)).concat(qs.slice(0, Math.ceil(qs.length / 2))).reverse();
+  const qs2 = BIZ.quotes.slice(half);
   $('#railTrack2').innerHTML = '<div class="rail-set">' + qs2.map(q => card(q, 1)).join('') + '</div><div class="rail-set">' + qs2.map(q => card(q, 1)).join('') + '</div>';
   $('#railTrack2').style.animationDuration = (qs2.length * 15) + 's';
   // before/after: drag to compare
